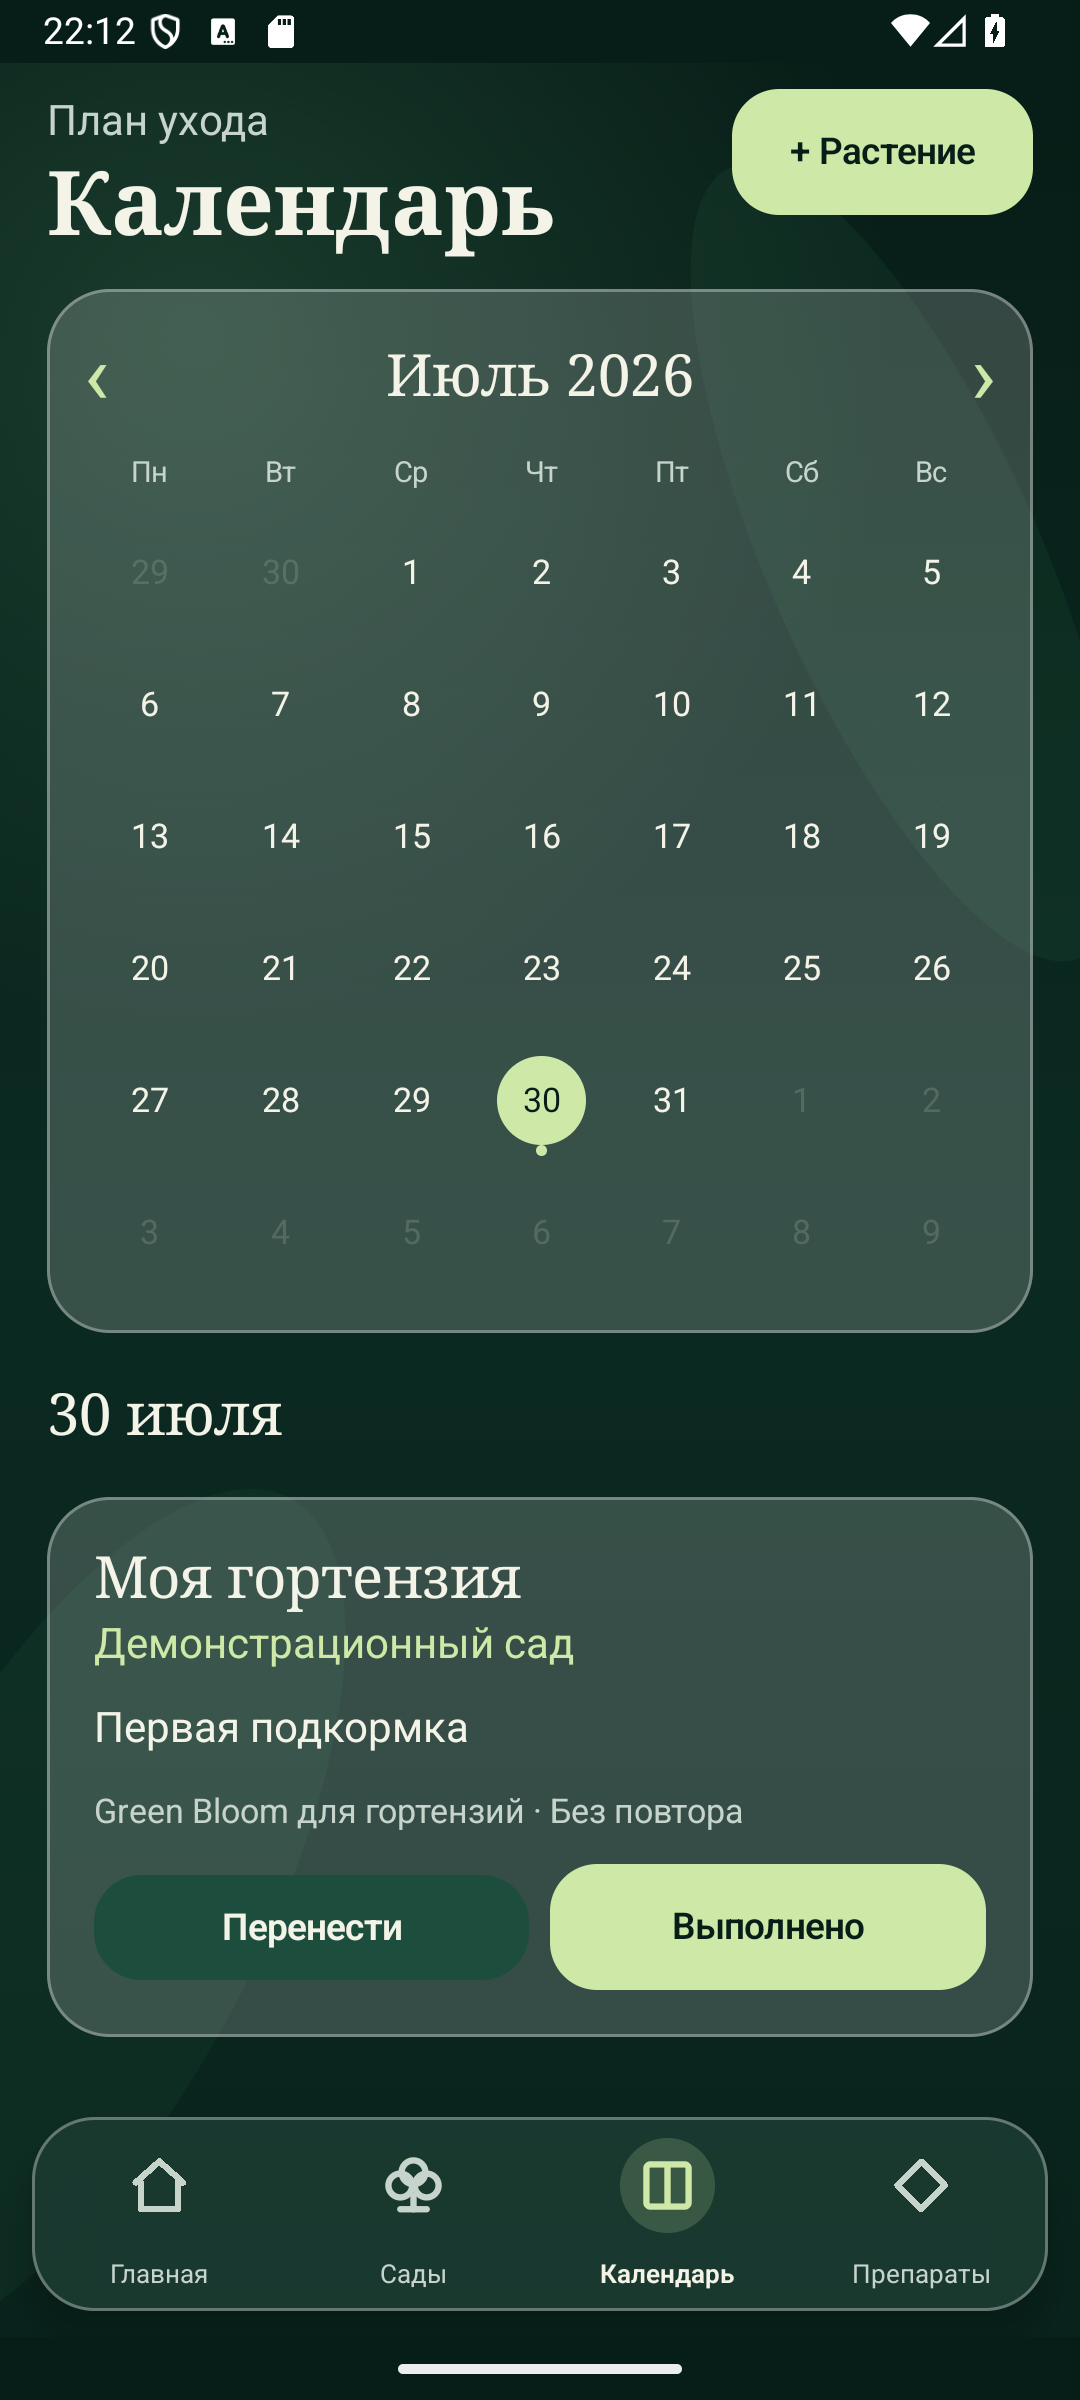
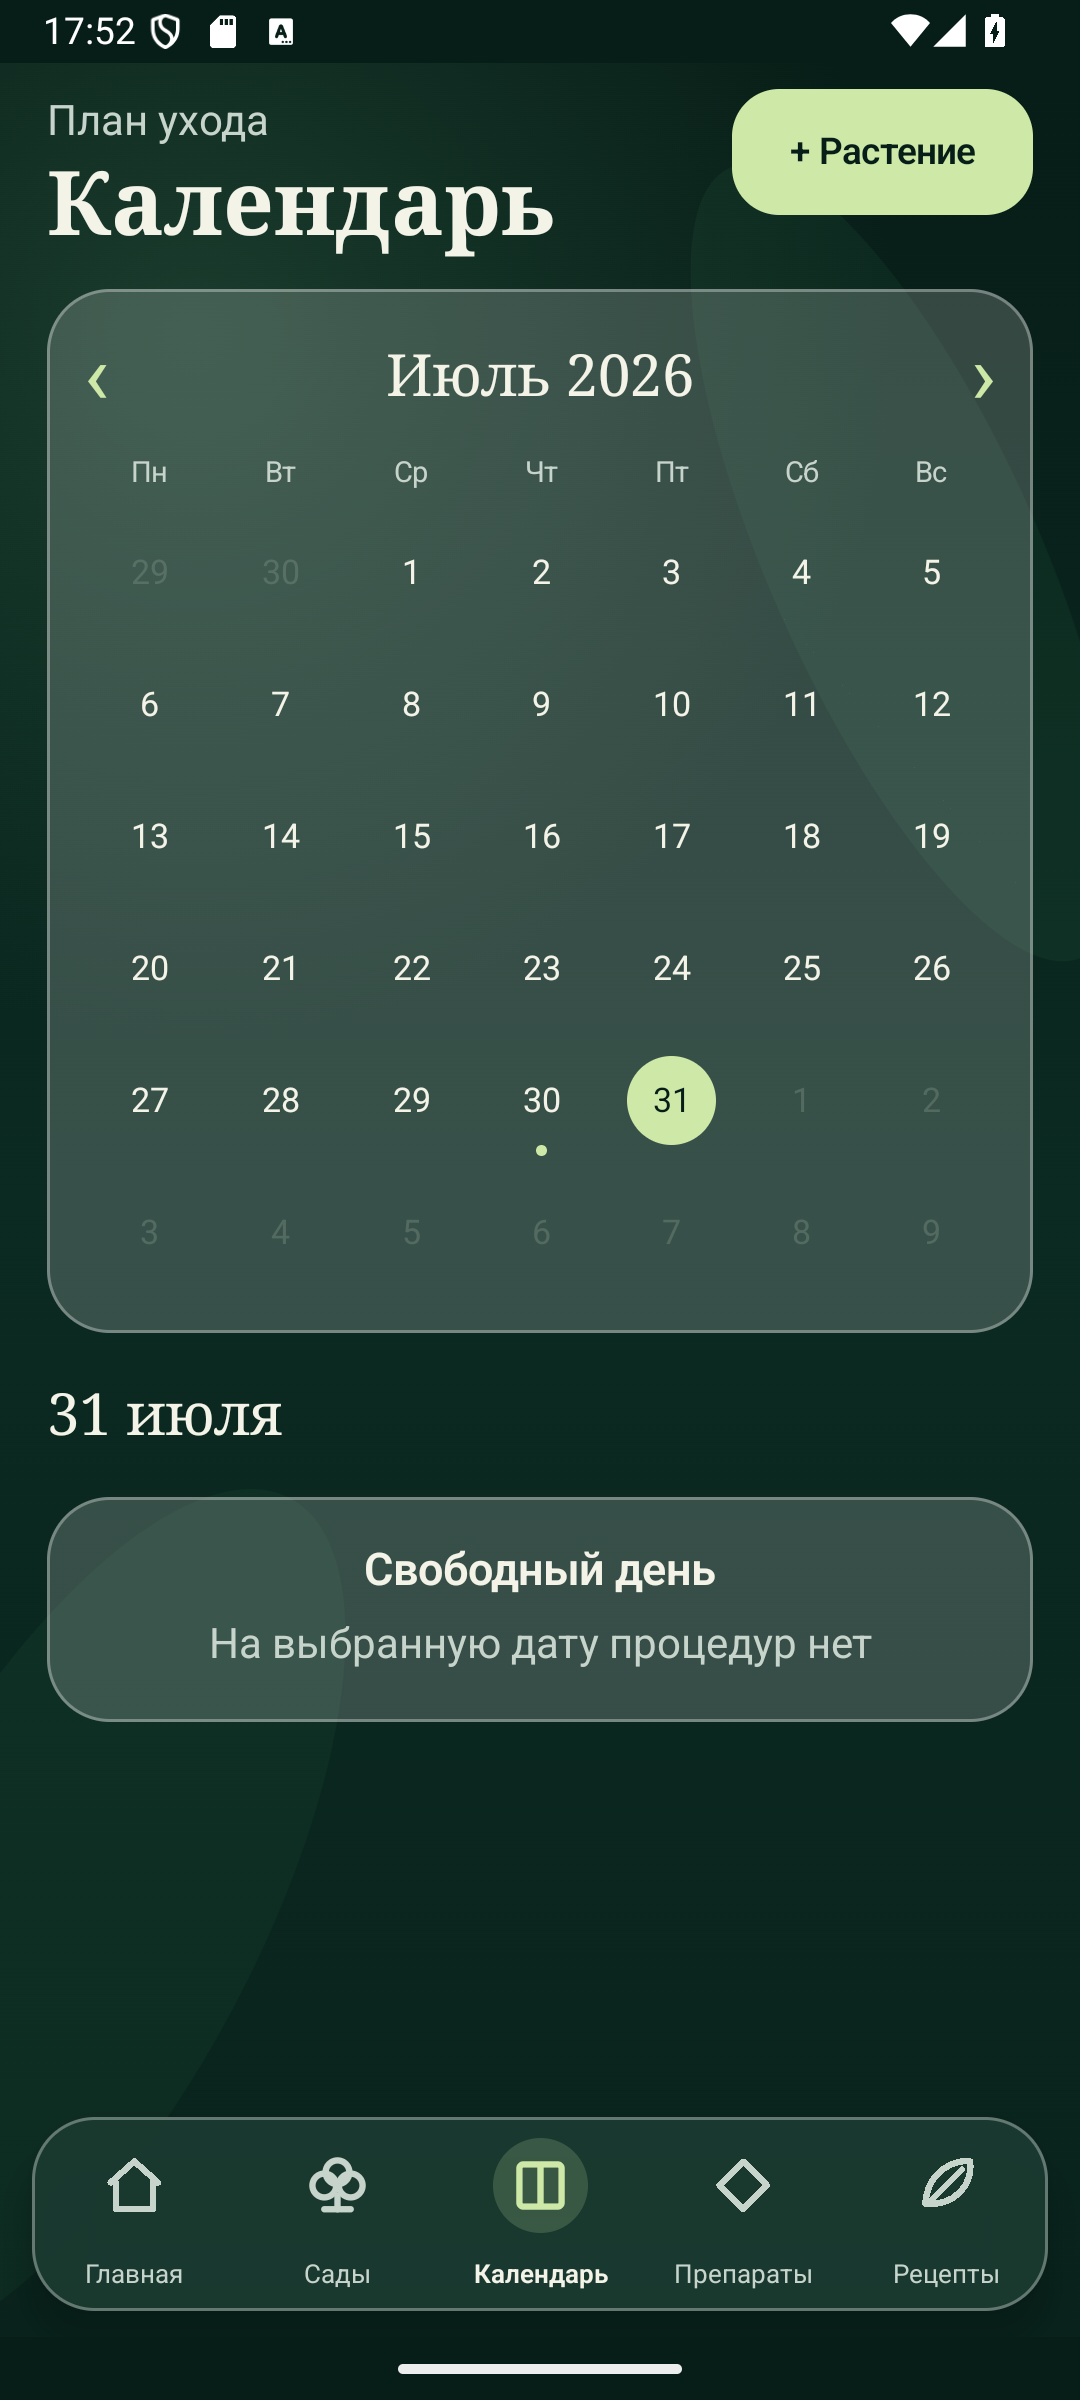
Refresh site screenshots from GardenSpa 1.0.11

diff --git a/design-prototype/app/page.tsx b/design-prototype/app/page.tsx
@@ -127,7 +127,7 @@ export default function Home() {
             <PhonePreview screen="home" />
             <div className="floating-note floating-note-top">
               <span className="note-icon note-icon-leaf" />
-              <span><small>Сегодня в календаре</small><strong>Первая подкормка</strong></span>
+              <span><small>Статус на сегодня</small><strong>Всё идёт по плану</strong></span>
             </div>
             <div className="floating-note floating-note-bottom">
               <span className="pulse-dot" />
